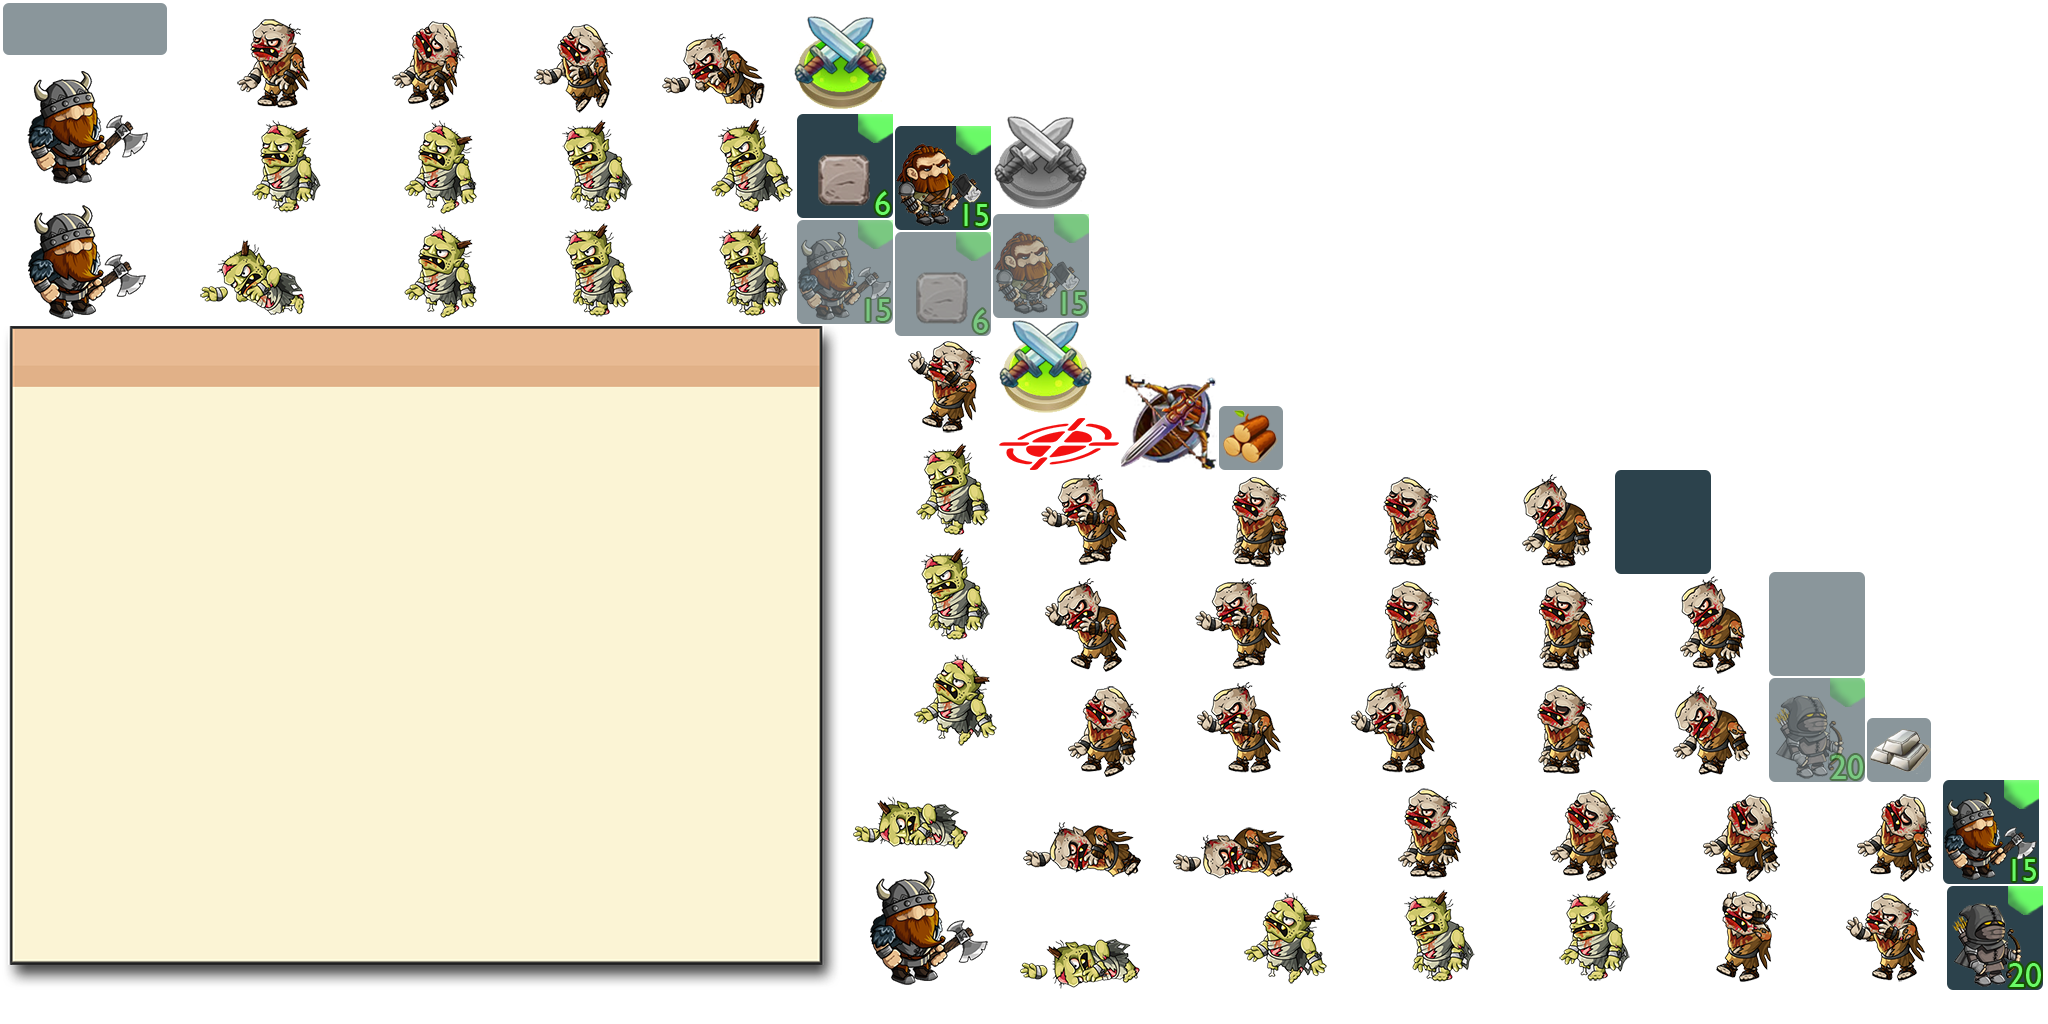
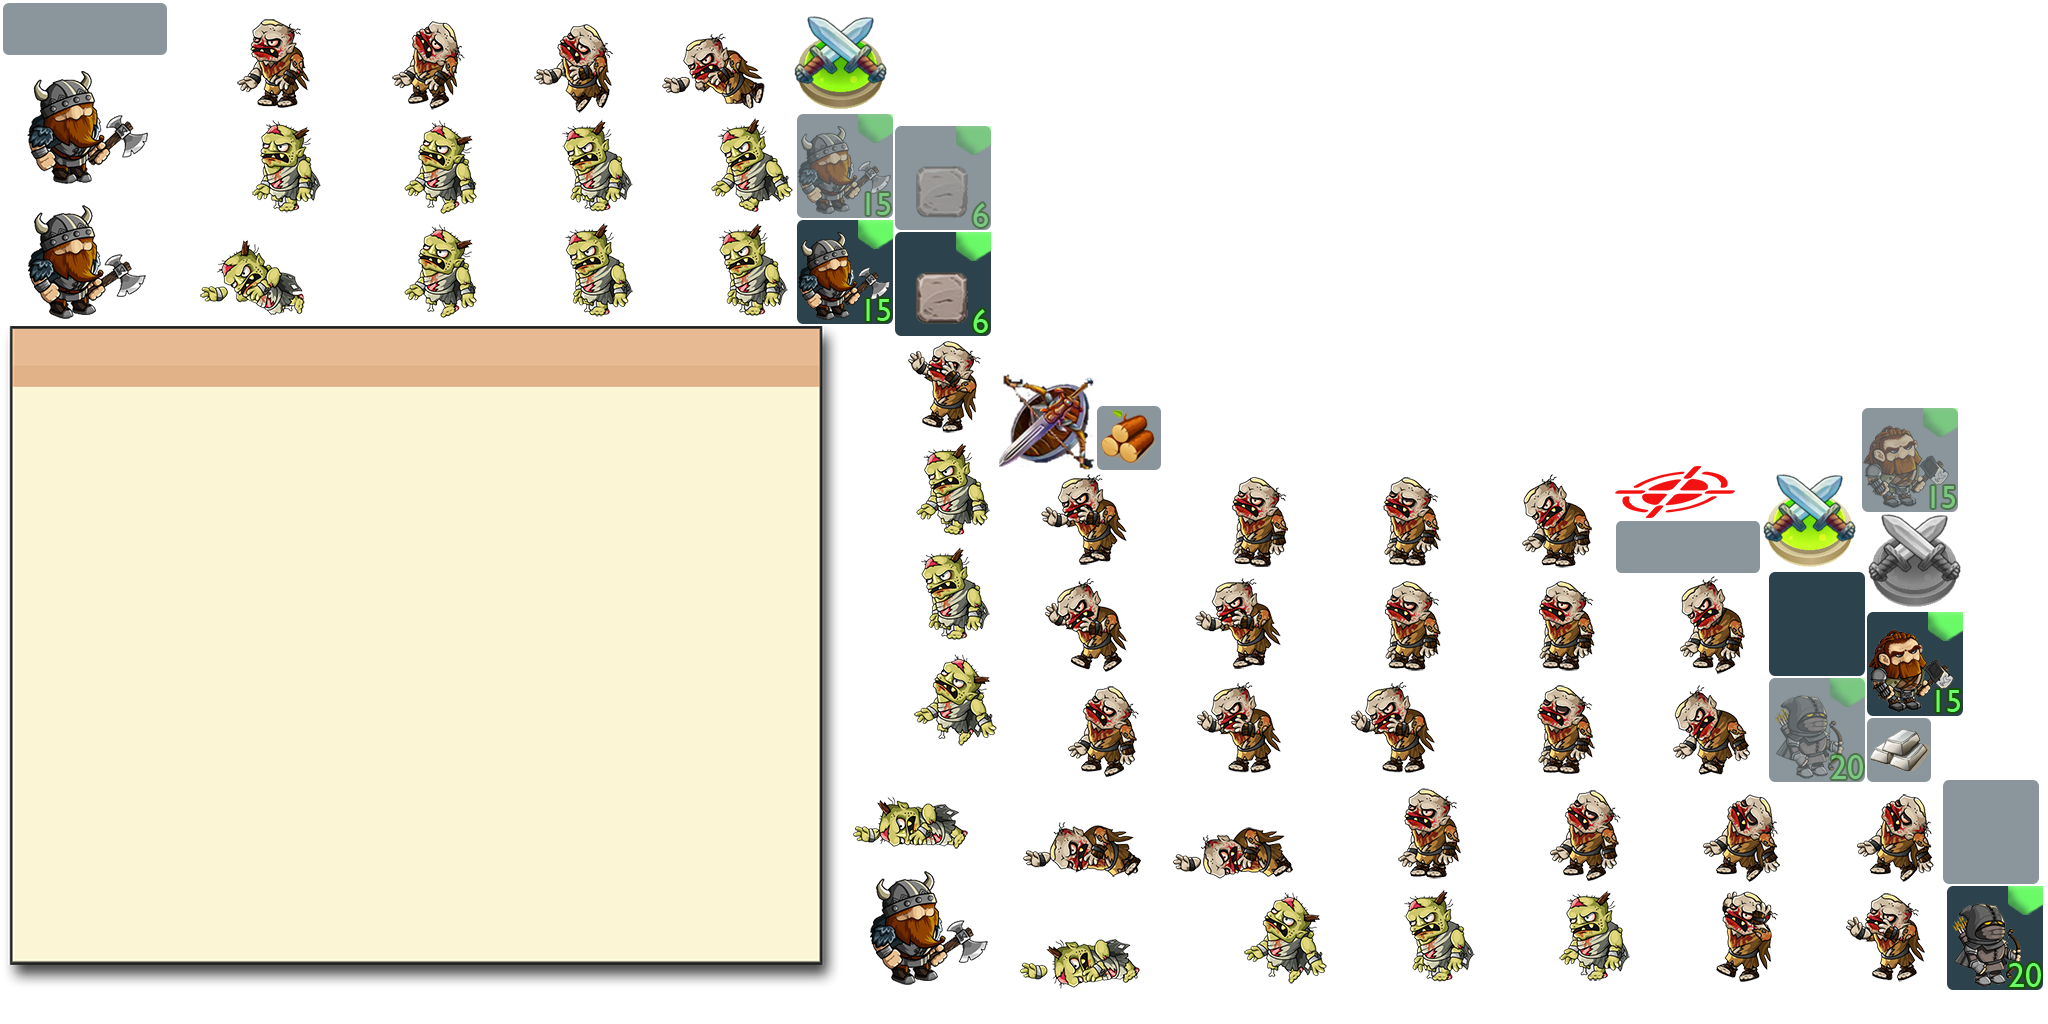
rabotaet vse. Nachinau delat unitov 10.02.2020

Changed region(s): [[0.375, 0.0938, 0.625, 0.4688], [0.7812, 0.375, 0.9688, 0.7188], [0.9375, 0.75, 1.0, 0.875]]

diff --git a/core/src/com/timgapps/warfare/Level/GUI/HUD.java b/core/src/com/timgapps/warfare/Level/GUI/HUD.java
@@ -10,6 +10,8 @@ import com.badlogic.gdx.scenes.scene2d.ui.Label;
 import com.badlogic.gdx.scenes.scene2d.ui.Table;
 import com.badlogic.gdx.scenes.scene2d.utils.TextureRegionDrawable;
 import com.badlogic.gdx.utils.Align;
+import com.timgapps.warfare.Level.GUI.Screens.CoinsPanel;
+import com.timgapps.warfare.Level.GUI.Screens.EnergyPanel;
 import com.timgapps.warfare.Level.Level;
 import com.timgapps.warfare.Warfare;
 
@@ -24,45 +26,21 @@ public class HUD extends Group {
     private Table energyTable;
     private int coinsCount;
 
+    private EnergyPanel energyPanel;
+    private CoinsPanel coinsPanel;
+
     public HUD(Level level) {
         this.level = level;
         coinsCount = level.getCoinCount();
 
-        /** Таблица для отображения количества энергии и монет **/
-        energyTable = new Table().debug();
-
-        energyTable.setWidth(level.getWidth() - 64);
-
-        /** Изображение ЗНАЧОК ЭНЕРГИИ **/
-        energyIcon = new Image(Warfare.atlas.findRegion("energyIcon"));
-        coinIcon = new Image(Warfare.atlas.findRegion("coin_icon"));
-
-        setHeight(coinIcon.getHeight());
-//        setHeight(coinIcon.getHeight());
-
-        /** Надпись о КОЛИЧЕСТВЕ ЭНЕРГИИ **/
-        Label.LabelStyle energyLabelStyle = new Label.LabelStyle();
-        energyLabelStyle.fontColor = new Color(0x35a1afff);
-        energyLabelStyle.font = Warfare.font20;
-        energyCountLabel = new Label("" + level.getEnergyCount(), energyLabelStyle);        // надпись "КОЛИЧЕСТВО ЭНЕРГИИ"
-
-
-        /** Изображение ЗНАЧОК МОНЕТА **/
-        energyIcon = new Image(Warfare.atlas.findRegion("energyIcon"));
-
-        /** Надпись о КОЛИЧЕСТВЕ МОНЕТ **/
-        Label.LabelStyle coinLabelStyle = new Label.LabelStyle();
-        coinLabelStyle.fontColor = Color.YELLOW;
-        coinLabelStyle.font = Warfare.font20;
-        coinCountLabel = new Label("" + coinsCount, coinLabelStyle);        // надпись "КОЛИЧЕСТВО ЭНЕРГИИ"
-        coinCountLabel.setAlignment(Align.right);
+        coinsPanel = new CoinsPanel(coinsCount);
+        energyPanel = new EnergyPanel(level);
 
         /** Добавляем элементы в таблицу **/
-        energyTable.add(energyIcon).width(energyIcon.getWidth());
-        energyTable.add(energyCountLabel).padLeft(8).width(64);
+
+        energyTable.add(energyPanel);
         energyTable.add().expandX();
-        energyTable.add(coinCountLabel).expandX().width(96).right().padRight(8);
-        energyTable.add(coinIcon).width(coinIcon.getWidth());
+        energyTable.add(coinsPanel);
 
         addActor(energyTable);
     }

diff --git a/core/src/com/timgapps/warfare/Level/GUI/Screens/EnergyPanel.java b/core/src/com/timgapps/warfare/Level/GUI/Screens/EnergyPanel.java
@@ -1,0 +1,54 @@
+package com.timgapps.warfare.Level.GUI.Screens;
+
+import com.badlogic.gdx.graphics.Color;
+import com.badlogic.gdx.scenes.scene2d.Group;
+import com.badlogic.gdx.scenes.scene2d.ui.Image;
+import com.badlogic.gdx.scenes.scene2d.ui.Label;
+import com.badlogic.gdx.scenes.scene2d.ui.Table;
+import com.badlogic.gdx.scenes.scene2d.utils.TextureRegionDrawable;
+import com.badlogic.gdx.utils.Align;
+import com.timgapps.warfare.Level.Level;
+import com.timgapps.warfare.Warfare;
+
+public class EnergyPanel extends Group {
+    private Table table;
+    private int coinsCount;
+    private Label energyCountLabel;
+    private Image energyIcon;
+    private Level level;
+    private TextureRegionDrawable background;
+
+    public EnergyPanel(Level level) {
+        this.level = level;
+
+        /** Изображение ЗНАЧОК ЭНЕРГИИ **/
+        energyIcon = new Image(Warfare.atlas.findRegion("energyIcon"));
+        background = new TextureRegionDrawable(Warfare.atlas.findRegion("coinsPanel"));
+
+        /** Надпись о КОЛИЧЕСТВЕ ЭНЕРГИИ **/
+        Label.LabelStyle energyLabelStyle = new Label.LabelStyle();
+        energyLabelStyle.fontColor = Color.CYAN;
+        energyLabelStyle.font = Warfare.font20;
+        energyCountLabel = new Label("" + level.getEnergyCount(), energyLabelStyle);        // надпись "КОЛИЧЕСТВО ЭНЕРГИИ"
+
+        table = new Table();
+//        table = new Table().debug();
+        table.align(Align.left);
+        table.add(energyIcon).width(energyIcon.getWidth());
+        table.add(energyCountLabel).padLeft(8).width(64);
+        table.setHeight(46);
+        table.setWidth(background.getRegion().getRegionWidth());
+        table.setBackground(background);
+
+        setWidth(table.getWidth());
+        setHeight(table.getHeight());
+
+        addActor(table);
+    }
+
+    @Override
+    public void act(float delta) {
+        super.act(delta);
+        energyCountLabel.setText("" + level.getEnergyCount());
+    }
+}

diff --git a/core/src/com/timgapps/warfare/Level/GUI/Screens/CoinsPanel.java b/core/src/com/timgapps/warfare/Level/GUI/Screens/CoinsPanel.java
@@ -13,9 +13,15 @@ public class CoinsPanel extends Group {
     private Table table;
     private int coinsCount;
     private Label coinsValueLabel;
+    private Image coinIcon;
+    private TextureRegionDrawable background;
 
     public CoinsPanel(int coinsCount) {
         this.coinsCount = coinsCount;
+
+        /** Изображение ЗНАЧОК МОНЕТА **/
+        coinIcon = new Image(Warfare.atlas.findRegion("coin_icon"));
+        background = new TextureRegionDrawable(Warfare.atlas.findRegion("coinsPanel"));
 
         Label.LabelStyle labelStyle = new Label.LabelStyle();
         labelStyle.fontColor = Color.YELLOW;
@@ -25,11 +31,11 @@ public class CoinsPanel extends Group {
         table = new Table();
 //        table = new Table().debug();
         table.align(Align.right);
-        table.setWidth(160);
+        table.setWidth(background.getRegion().getRegionWidth());
         table.setHeight(46);
-        table.setBackground(new TextureRegionDrawable(Warfare.atlas.findRegion("coinsPanel")));
+        table.setBackground(background);
         table.add(coinsValueLabel).expand().right();
-        table.add(new Image(Warfare.atlas.findRegion("coin_icon"))).width(48);
+        table.add(coinIcon).width(coinIcon.getWidth());
 
         setWidth(table.getWidth());
         setHeight(table.getHeight());

diff --git a/core/src/com/timgapps/warfare/Level/GameManager.java b/core/src/com/timgapps/warfare/Level/GameManager.java
@@ -34,7 +34,7 @@ public class GameManager {
 
 
         /** количество монет у игрока **/
-        coinsCount = 6000;
+        coinsCount = 1000;
 
         coinsPanel = new CoinsPanel(coinsCount);
 
